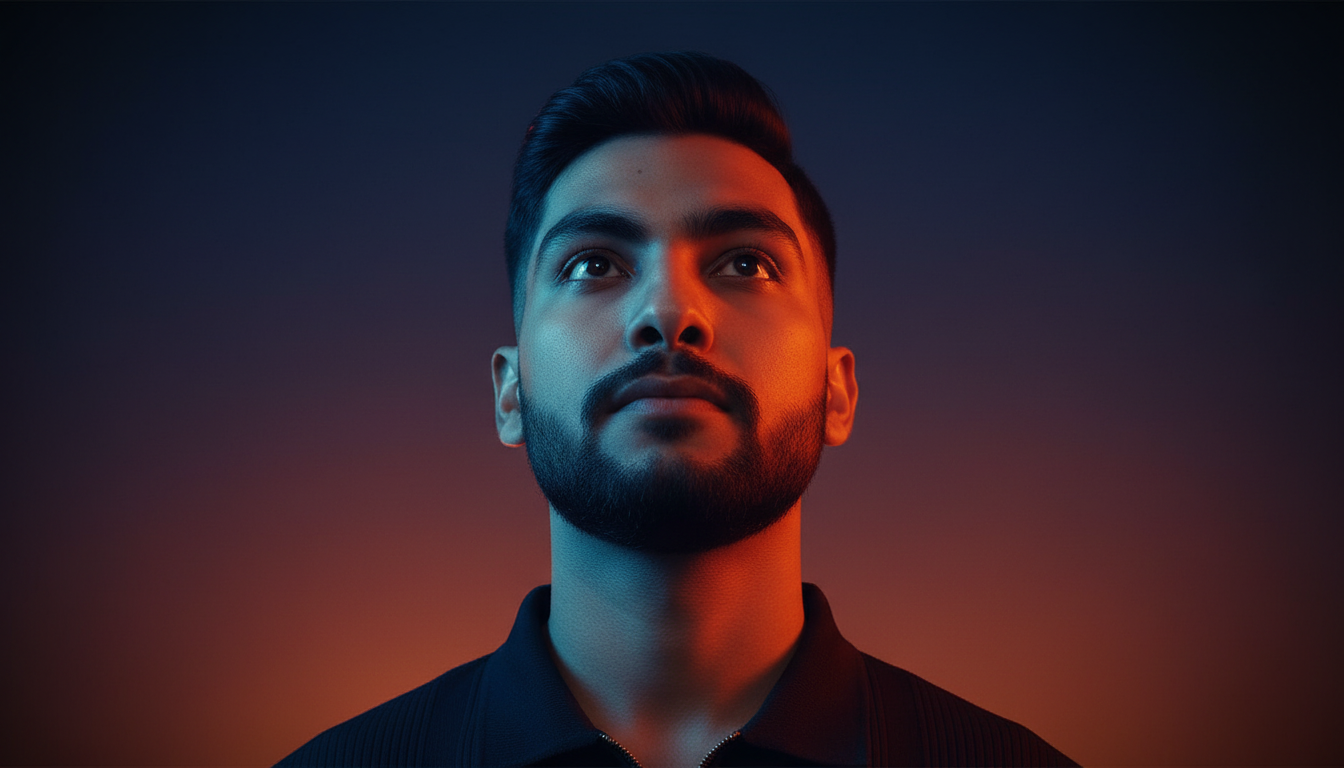
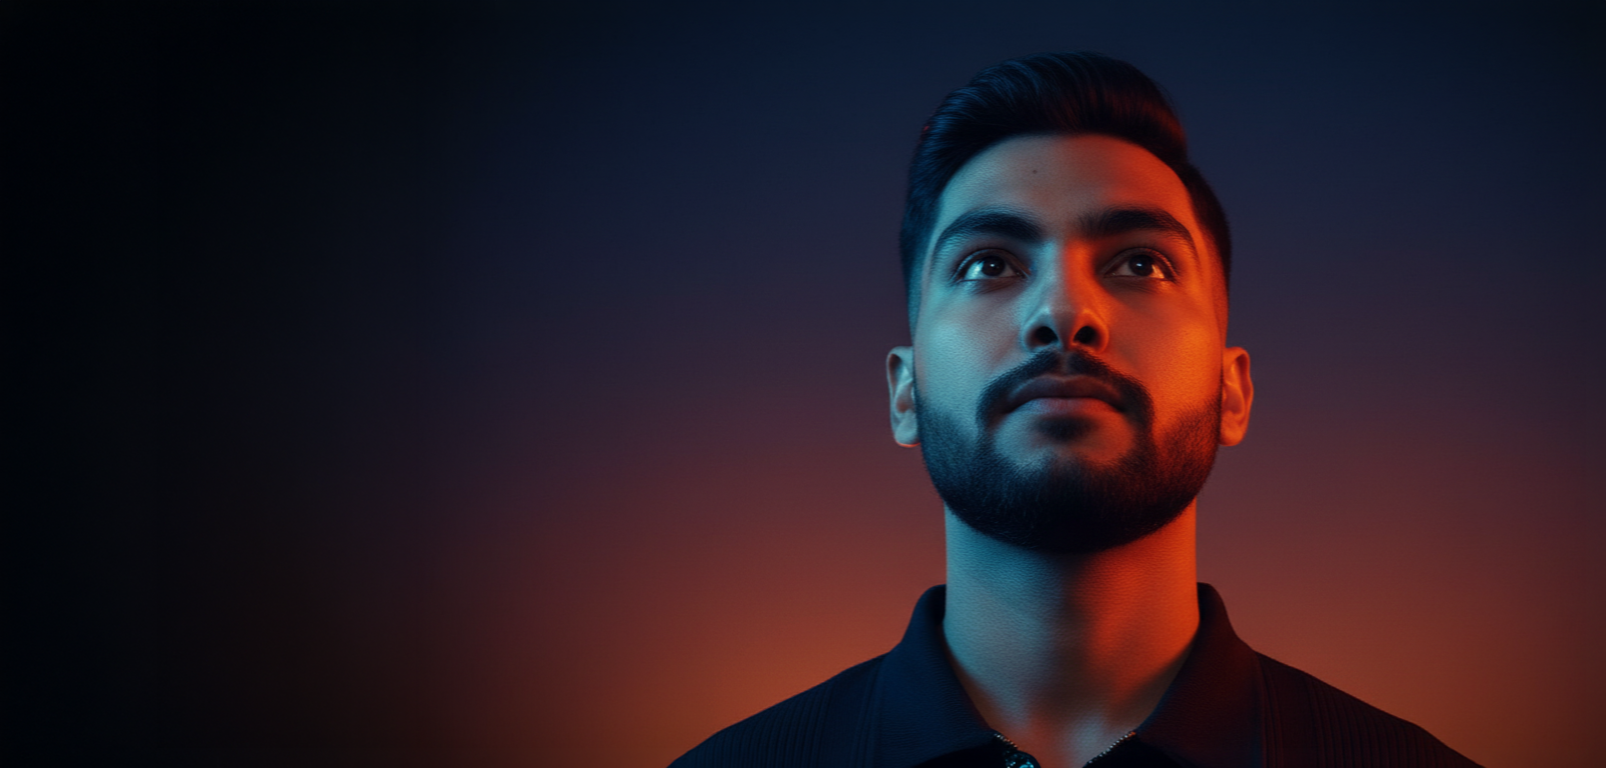
Refactor Overlay layout; add Hero2.png

diff --git a/src/components/Overlay.jsx b/src/components/Overlay.jsx
@@ -1,94 +1,47 @@
-import { useEffect, useState } from 'react';
 import { motion } from 'framer-motion';
-
-const nameLines = ['VISHAL', 'SHARMA'];
-const typingSpeed = 110;
-const linePause = 1100;
-
-function TypingName() {
-  const [lineIndex, setLineIndex] = useState(0);
-  const [charIndex, setCharIndex] = useState(0);
-
-  useEffect(() => {
-    const currentLine = nameLines[lineIndex];
-    let timeoutId;
-
-    if (charIndex < currentLine.length) {
-      timeoutId = window.setTimeout(() => {
-        setCharIndex((value) => value + 1);
-      }, typingSpeed);
-    } else {
-      timeoutId = window.setTimeout(() => {
-        if (lineIndex === nameLines.length - 1) {
-          setLineIndex(0);
-          setCharIndex(0);
-        } else {
-          setLineIndex((value) => value + 1);
-          setCharIndex(0);
-        }
-      }, linePause);
-    }
-
-    return () => window.clearTimeout(timeoutId);
-  }, [charIndex, lineIndex]);
-
-  return (
-    <div className="flex flex-col items-center gap-1">
-      {nameLines.map((line, index) => {
-        const typedText =
-          index < lineIndex
-            ? line
-            : index > lineIndex
-            ? ''
-            : line.slice(0, charIndex);
-        const activeLine = index === lineIndex;
-
-        return (
-          <div key={line} className="flex items-center justify-center">
-            <span className={index === 0 ? 'text-gradient' : 'text-white'}>{typedText}</span>
-            {activeLine && (
-              <motion.span
-                aria-hidden="true"
-                className="ml-1 inline-block h-[0.9em] w-[2px] bg-white/80 align-middle"
-                animate={{ opacity: [0, 1, 0] }}
-                transition={{ duration: 0.85, repeat: Infinity, ease: 'easeInOut' }}
-              />
-            )}
-          </div>
-        );
-      })}
-    </div>
-  );
-}
 
 export default function Overlay() {
   return (
     <div className="absolute top-0 left-0 z-10 w-full h-screen pointer-events-none">
-      <div className="absolute inset-0 pointer-events-none bg-gradient-to-b from-black/30 via-transparent to-black/50" />
+      <div className="absolute inset-0 pointer-events-none bg-gradient-to-b from-black/20 via-transparent to-black/45" />
 
       <motion.div
-        className="absolute inset-0 flex flex-col items-center justify-center px-6 text-center"
-        initial={{ opacity: 0, y: 16 }}
-        animate={{ opacity: 1, y: [0, -8, 0] }}
-        transition={{ duration: 0.9, ease: [0.16, 1, 0.3, 1] }}
+        className="absolute left-[5%] top-[22%] max-w-[42rem] px-4 sm:px-0 md:left-[4.5%] md:top-1/2 md:-translate-y-1/2"
+        initial={{ opacity: 0, x: -24 }}
+        animate={{ opacity: 1, x: 0 }}
+        transition={{ duration: 0.8, ease: [0.16, 1, 0.3, 1] }}
       >
-        <motion.p
-          className="text-xs tracking-[0.35em] uppercase text-white/40 mb-4 font-light"
-          animate={{ opacity: [0.45, 0.8, 0.45], y: [0, -2, 0] }}
-          transition={{ duration: 4.5, repeat: Infinity, ease: 'easeInOut' }}
-        >
-          Creative Developer
-        </motion.p>
-
         <motion.h1
-          className="flex flex-col items-center gap-1 text-5xl md:text-7xl xl:text-[8rem] font-black leading-[0.9] tracking-tight"
-          animate={{ y: [0, -6, 0], scale: [1, 1.01, 1] }}
-          transition={{ duration: 6, repeat: Infinity, ease: 'easeInOut' }}
+          className="flex flex-col text-left text-[clamp(4rem,10vw,8.5rem)] font-black leading-[0.82] tracking-[-0.05em] drop-shadow-[0_8px_28px_rgba(0,0,0,0.35)]"
         >
-          <TypingName />
+          <span className="text-white">VISHAL</span>
+          <span className="text-gradient">SHARMA</span>
         </motion.h1>
 
-        {/* Removed three-line indicator under the hero */}
+        <motion.div
+          className="flex items-start gap-8 mt-10 text-left text-white/80"
+          initial={{ opacity: 0, y: 12 }}
+          animate={{ opacity: 1, y: 0 }}
+          transition={{ duration: 0.8, delay: 0.15 }}
+        >
+          <div className="flex min-w-[8rem] flex-col gap-3">
+            <span className="text-4xl leading-none text-gradient">&lt;/&gt;</span>
+            <div className="space-y-1">
+              <p className="text-[0.82rem] tracking-[0.4em] text-white/88">CREATIVE</p>
+              <p className="text-[0.82rem] tracking-[0.35em] text-white/55">DEVELOPER</p>
+            </div>
+          </div>
+
+          <div className="h-[4.5rem] w-px bg-white/18" />
+
+          <div className="flex min-w-[8rem] flex-col gap-3">
+            <span className="text-4xl leading-none text-gradient">◌</span>
+            <div className="space-y-1">
+              <p className="text-[0.82rem] tracking-[0.4em] text-white/88">CREATIVE</p>
+              <p className="text-[0.82rem] tracking-[0.35em] text-white/55">DEVELOPER</p>
+            </div>
+          </div>
+        </motion.div>
       </motion.div>
     </div>
   );